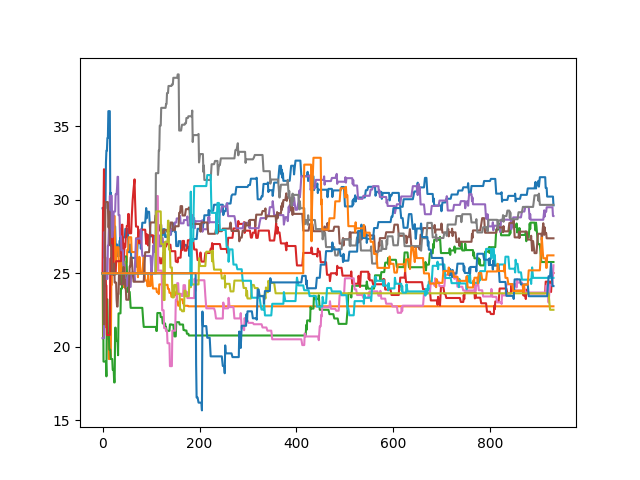
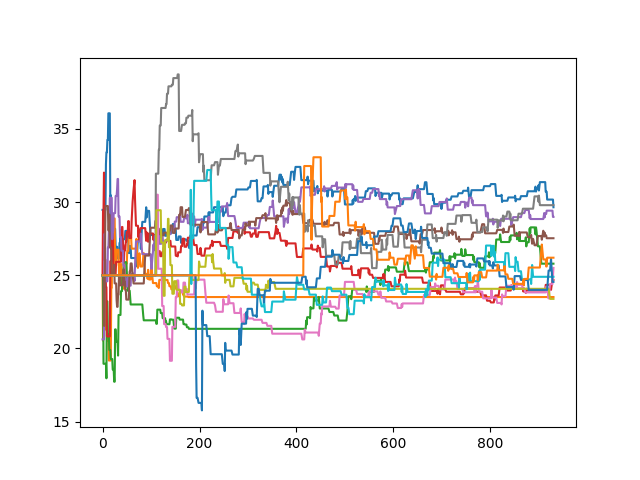
fixed analysis

diff --git a/src/trueskillplus/data_analysis/data_analysis_league.py b/src/trueskillplus/data_analysis/data_analysis_league.py
@@ -44,7 +44,7 @@ for tag in df['blueTeamTag'].unique():
     ts_plus_ratings[tag] = trueskill.Rating()
 
 ts_env = trueskill.TrueSkill(draw_probability=0)
-ts_plus_env = trueskillplus.Trueskillplus(draw_probability=0, stat_coeff = 0.00005)
+ts_plus_env = trueskillplus.Trueskillplus(draw_probability=0, stat_coeff = 0.000075)
 
 df['predicted_bResult'] = '?'
 
